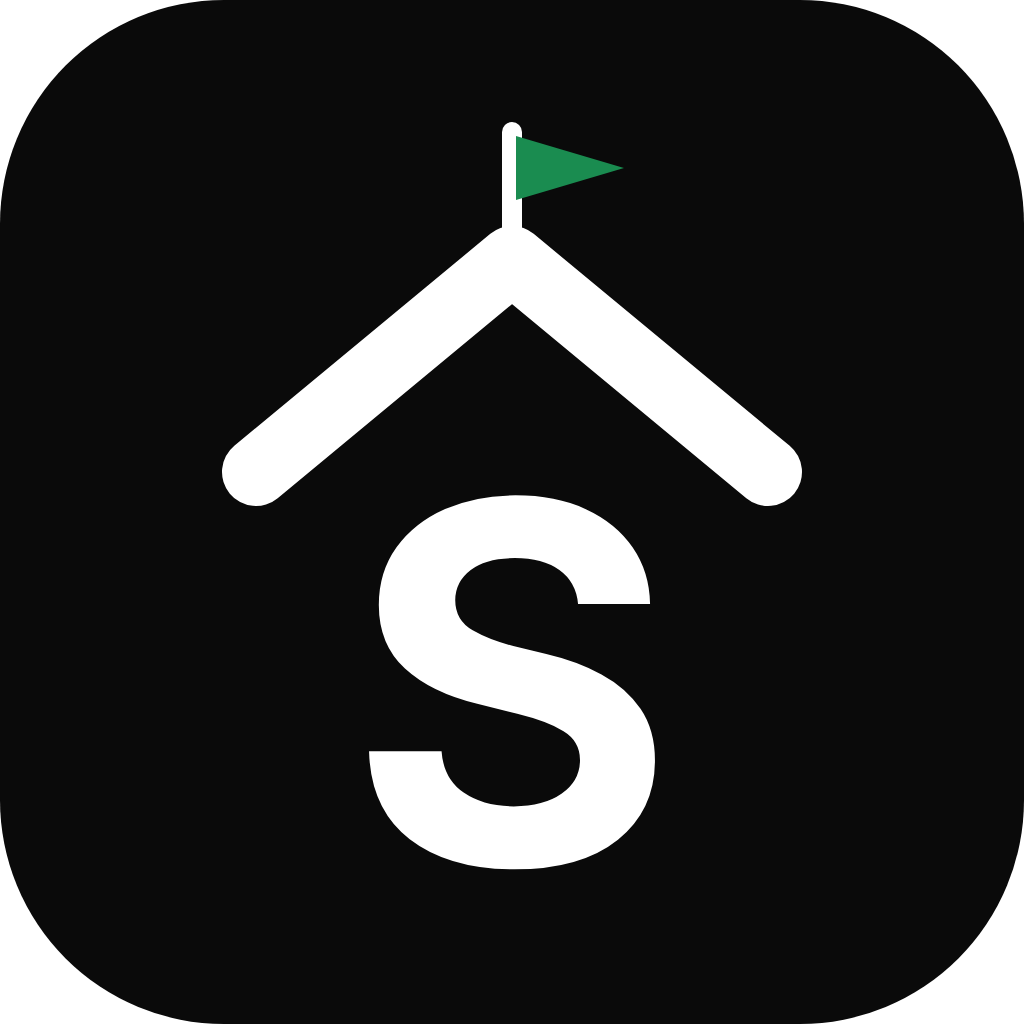
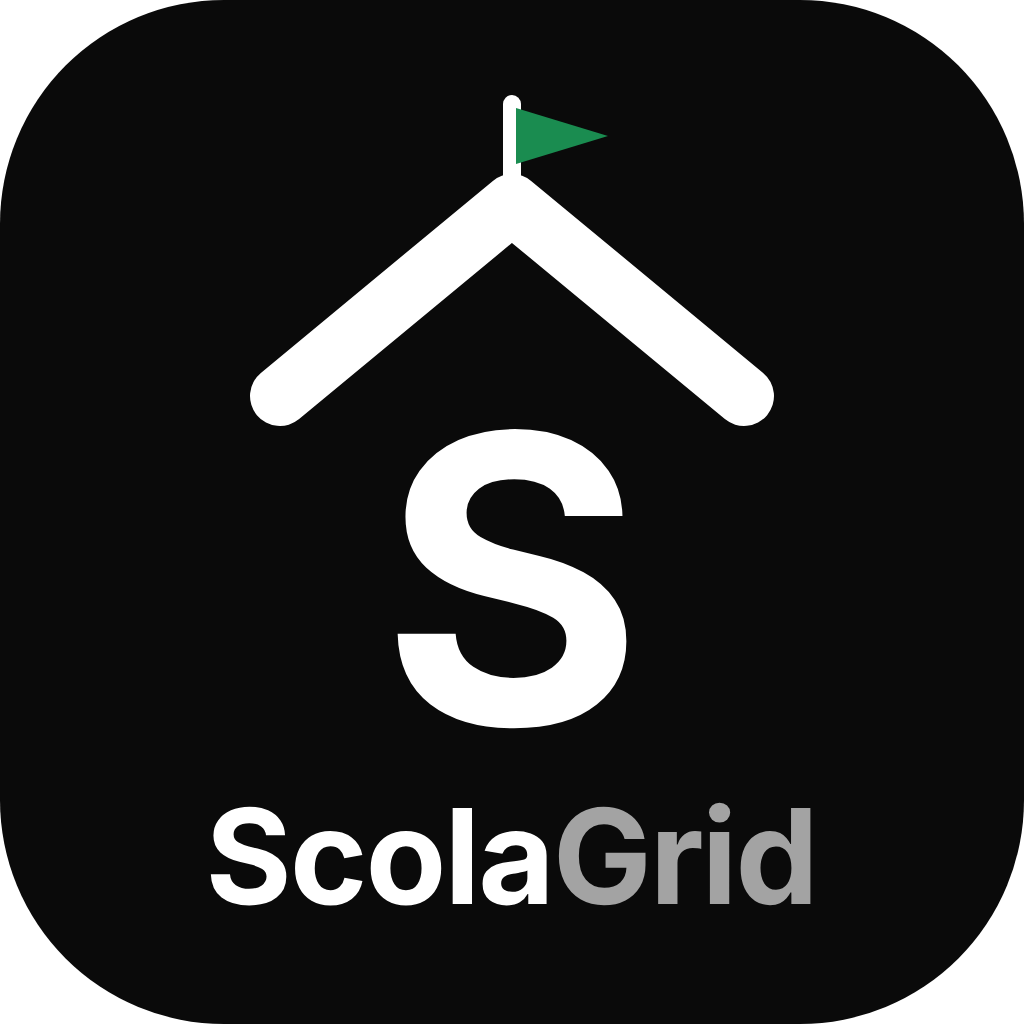
Marque : version retenue (piste 1) avec « ScolaGrid » sous le S, et icône sans le nom
Claude-Session: https://claude.ai/code/session_0122T6VeE6RqCURT9aMrpCiN

Changed region(s): [[0.1875, 0.4062, 0.8125, 0.9062], [0.2188, 0.0938, 0.7812, 0.5]]

diff --git a/marque/outils/export_png.js b/marque/outils/export_png.js
@@ -3,6 +3,8 @@ const fs = require('fs');
 const dir = process.argv[2];
 const sorties = [
   ['scolagrid-symbole.svg', 1024, 'transparent'],
+  ['scolagrid-icone.svg', 1024, 'transparent'],
+  ['scolagrid-symbole-fond-clair.svg', 1024, 'transparent'],
   ['scolagrid-symbole-grille.svg', 1024, 'transparent'],
   ['scolagrid-symbole-famille.svg', 1024, 'transparent'],
   ['scolagrid-logo-famille.svg', 1600, 'transparent'],

diff --git a/marque/outils/generer.py b/marque/outils/generer.py
@@ -241,3 +241,41 @@ def logo_ecole(fond_sombre):
     return svg(l, h, '\n'.join(corps), 'ScolaGrid')
 ecrire('scolagrid-logo.svg', logo_ecole(False))
 ecrire('scolagrid-logo-fond-sombre.svg', logo_ecole(True))
+
+# 8. Version retenue (piste 1, « plus grand, plus serré ») : sans le nom pour
+# l'icône d'application, avec « ScolaGrid » sous le S pour les grands formats.
+def ecole_icone(trait):
+    return (f'<g transform="translate(256 278) scale(1.16) translate(-256 -278)">'
+            f'<path d="M118 238 L256 124 L394 238" fill="none" stroke="{trait}" stroke-width="34" stroke-linecap="round" stroke-linejoin="round"/>'
+            f'<path d="M256 126 L256 66" stroke="{trait}" stroke-width="10" stroke-linecap="round"/>'
+            f'<path d="M258 68 L312 84 L258 100 Z" fill="{VERT}"/>'
+            f'<path d="{GRAS.glyphe("S", 236, 256 - GRAS.avance("S", 236) / 2, 410)}" fill="{trait}"/></g>')
+
+def ecole_nom(trait, gris):
+    taille = 66
+    l = GRAS.largeur('ScolaGrid', taille, -1); x = 256 - l / 2
+    x2 = x + GRAS.largeur('Scola', taille, -1) - 1
+    return (f'<path d="M140 198 L256 102 L372 198" fill="none" stroke="{trait}" stroke-width="30" stroke-linecap="round" stroke-linejoin="round"/>'
+            f'<path d="M256 104 L256 52" stroke="{trait}" stroke-width="9" stroke-linecap="round"/>'
+            f'<path d="M258 54 L304 68 L258 82 Z" fill="{VERT}"/>'
+            f'<path d="{GRAS.glyphe("S", 200, 256 - GRAS.avance("S", 200) / 2, 362)}" fill="{trait}"/>'
+            f'<path d="{GRAS.texte("Scola", taille, x, 452, -1)}" fill="{trait}"/>'
+            f'<path d="{GRAS.texte("Grid", taille, x2, 452, -1)}" fill="{gris}"/>')
+
+carre = f'<rect width="512" height="512" rx="112" fill="{ENCRE}"/>'
+ecrire('scolagrid-icone.svg', svg(512, 512, carre + ecole_icone('#FFFFFF'), 'ScolaGrid'))
+ecrire('scolagrid-symbole.svg', svg(512, 512, carre + ecole_nom('#FFFFFF', '#A3A3A3'), 'ScolaGrid'))
+ecrire('scolagrid-symbole-fond-clair.svg', svg(512, 512, ecole_nom(ENCRE, GRIS), 'ScolaGrid'))
+
+def logo_v1(fond_sombre):
+    h = 200; m = 200
+    fond, trait = ('#FFFFFF', ENCRE) if fond_sombre else (ENCRE, '#FFFFFF')
+    corps = [f'<g transform="scale({m/512})"><rect width="512" height="512" rx="112" fill="{fond}"/>{ecole_icone(trait)}</g>']
+    taille = 132; base = 148; x = m + 44
+    corps.append(f'<path d="{GRAS.texte("Scola", taille, x, base, -2)}" fill="{"#FFFFFF" if fond_sombre else ENCRE}"/>')
+    x2 = x + GRAS.largeur('Scola', taille, -2) - 2
+    corps.append(f'<path d="{GRAS.texte("Grid", taille, x2, base, -2)}" fill="{"#A3A3A3" if fond_sombre else GRIS}"/>')
+    l = int(x2 + GRAS.largeur('Grid', taille, -2) + 8)
+    return svg(l, h, '\n'.join(corps), 'ScolaGrid')
+ecrire('scolagrid-logo.svg', logo_v1(False))
+ecrire('scolagrid-logo-fond-sombre.svg', logo_v1(True))

diff --git a/marque/LISEZMOI.md b/marque/LISEZMOI.md
@@ -1,7 +1,10 @@
 # Marque ScolaGrid
 
-- `scolagrid-symbole` : le symbole retenu (icône d'application) — un toit d'école, un
-  petit drapeau vert au sommet, et le « S » de ScolaGrid dessous.
+- `scolagrid-symbole` : le symbole retenu — un toit d'école, un petit drapeau vert au
+  sommet, le « S » dessous et « ScolaGrid » en bas (grands formats : documents, affiches,
+  écran de démarrage) ; `scolagrid-symbole-fond-clair` : le même, sans carré, pour fond clair.
+- `scolagrid-icone` : le même symbole sans le nom, plus grand, pour l'icône d'application
+  (le nom serait illisible en petit).
 - En réserve : `…-famille` (une maman et sa fille en route vers l'école) et `…-grille`
   (un « S » dessiné dans une grille de 5 × 5 cases ; le cachet l'utilise encore).
 - `propositions/` : les pistes étudiées et les améliorations possibles.
